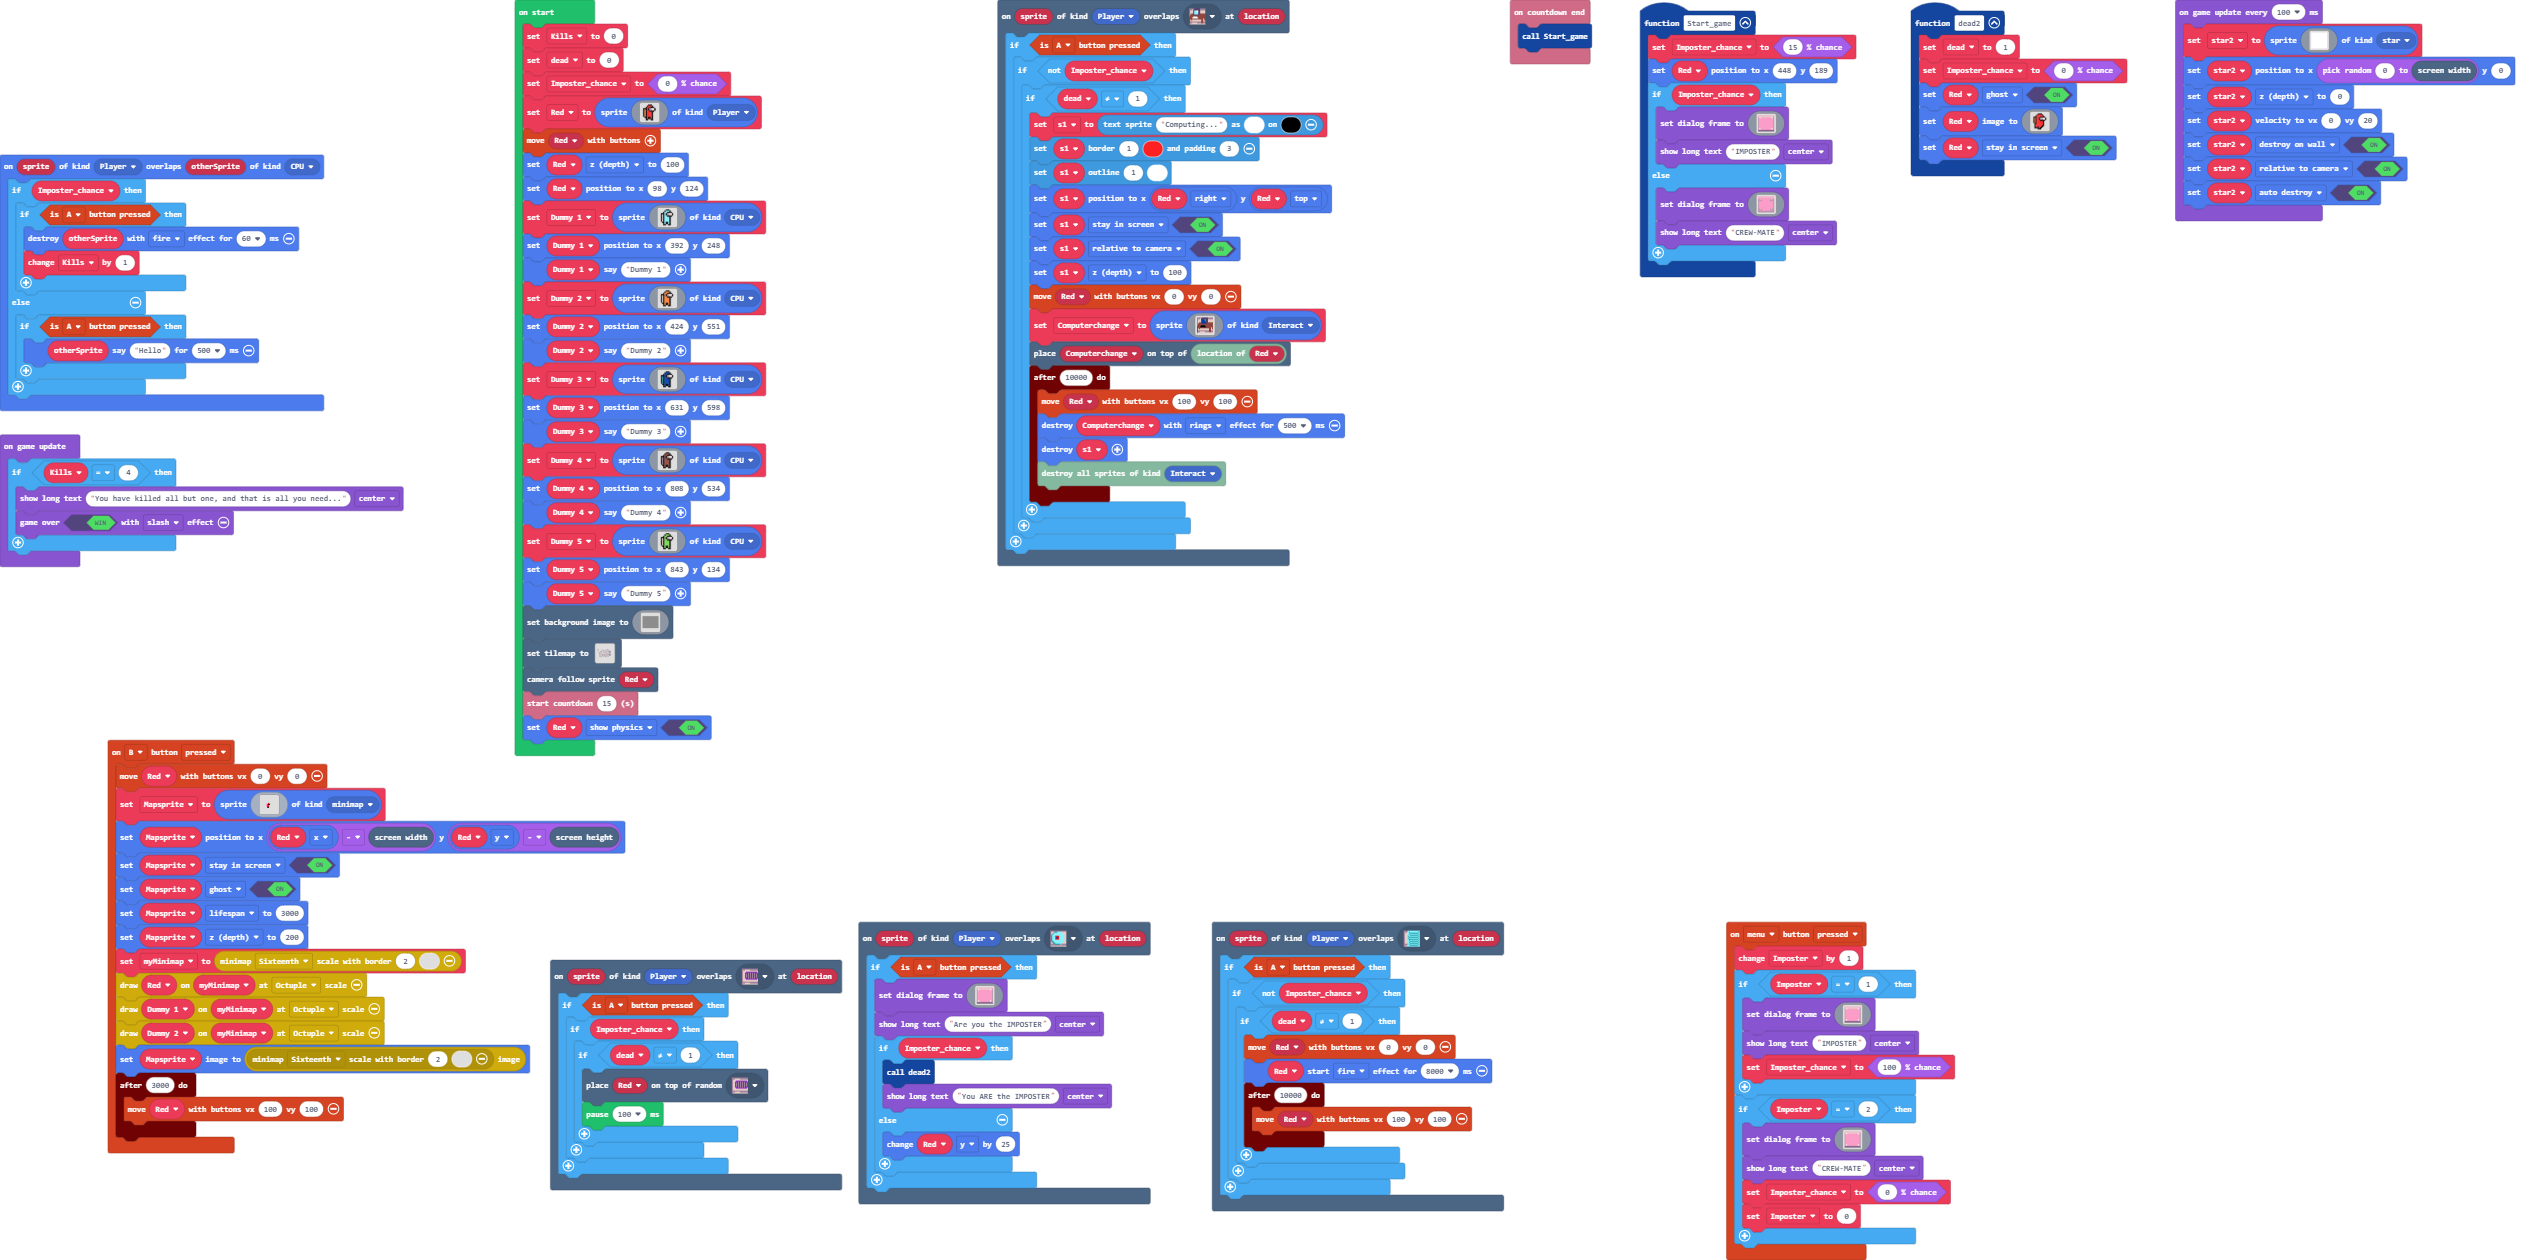
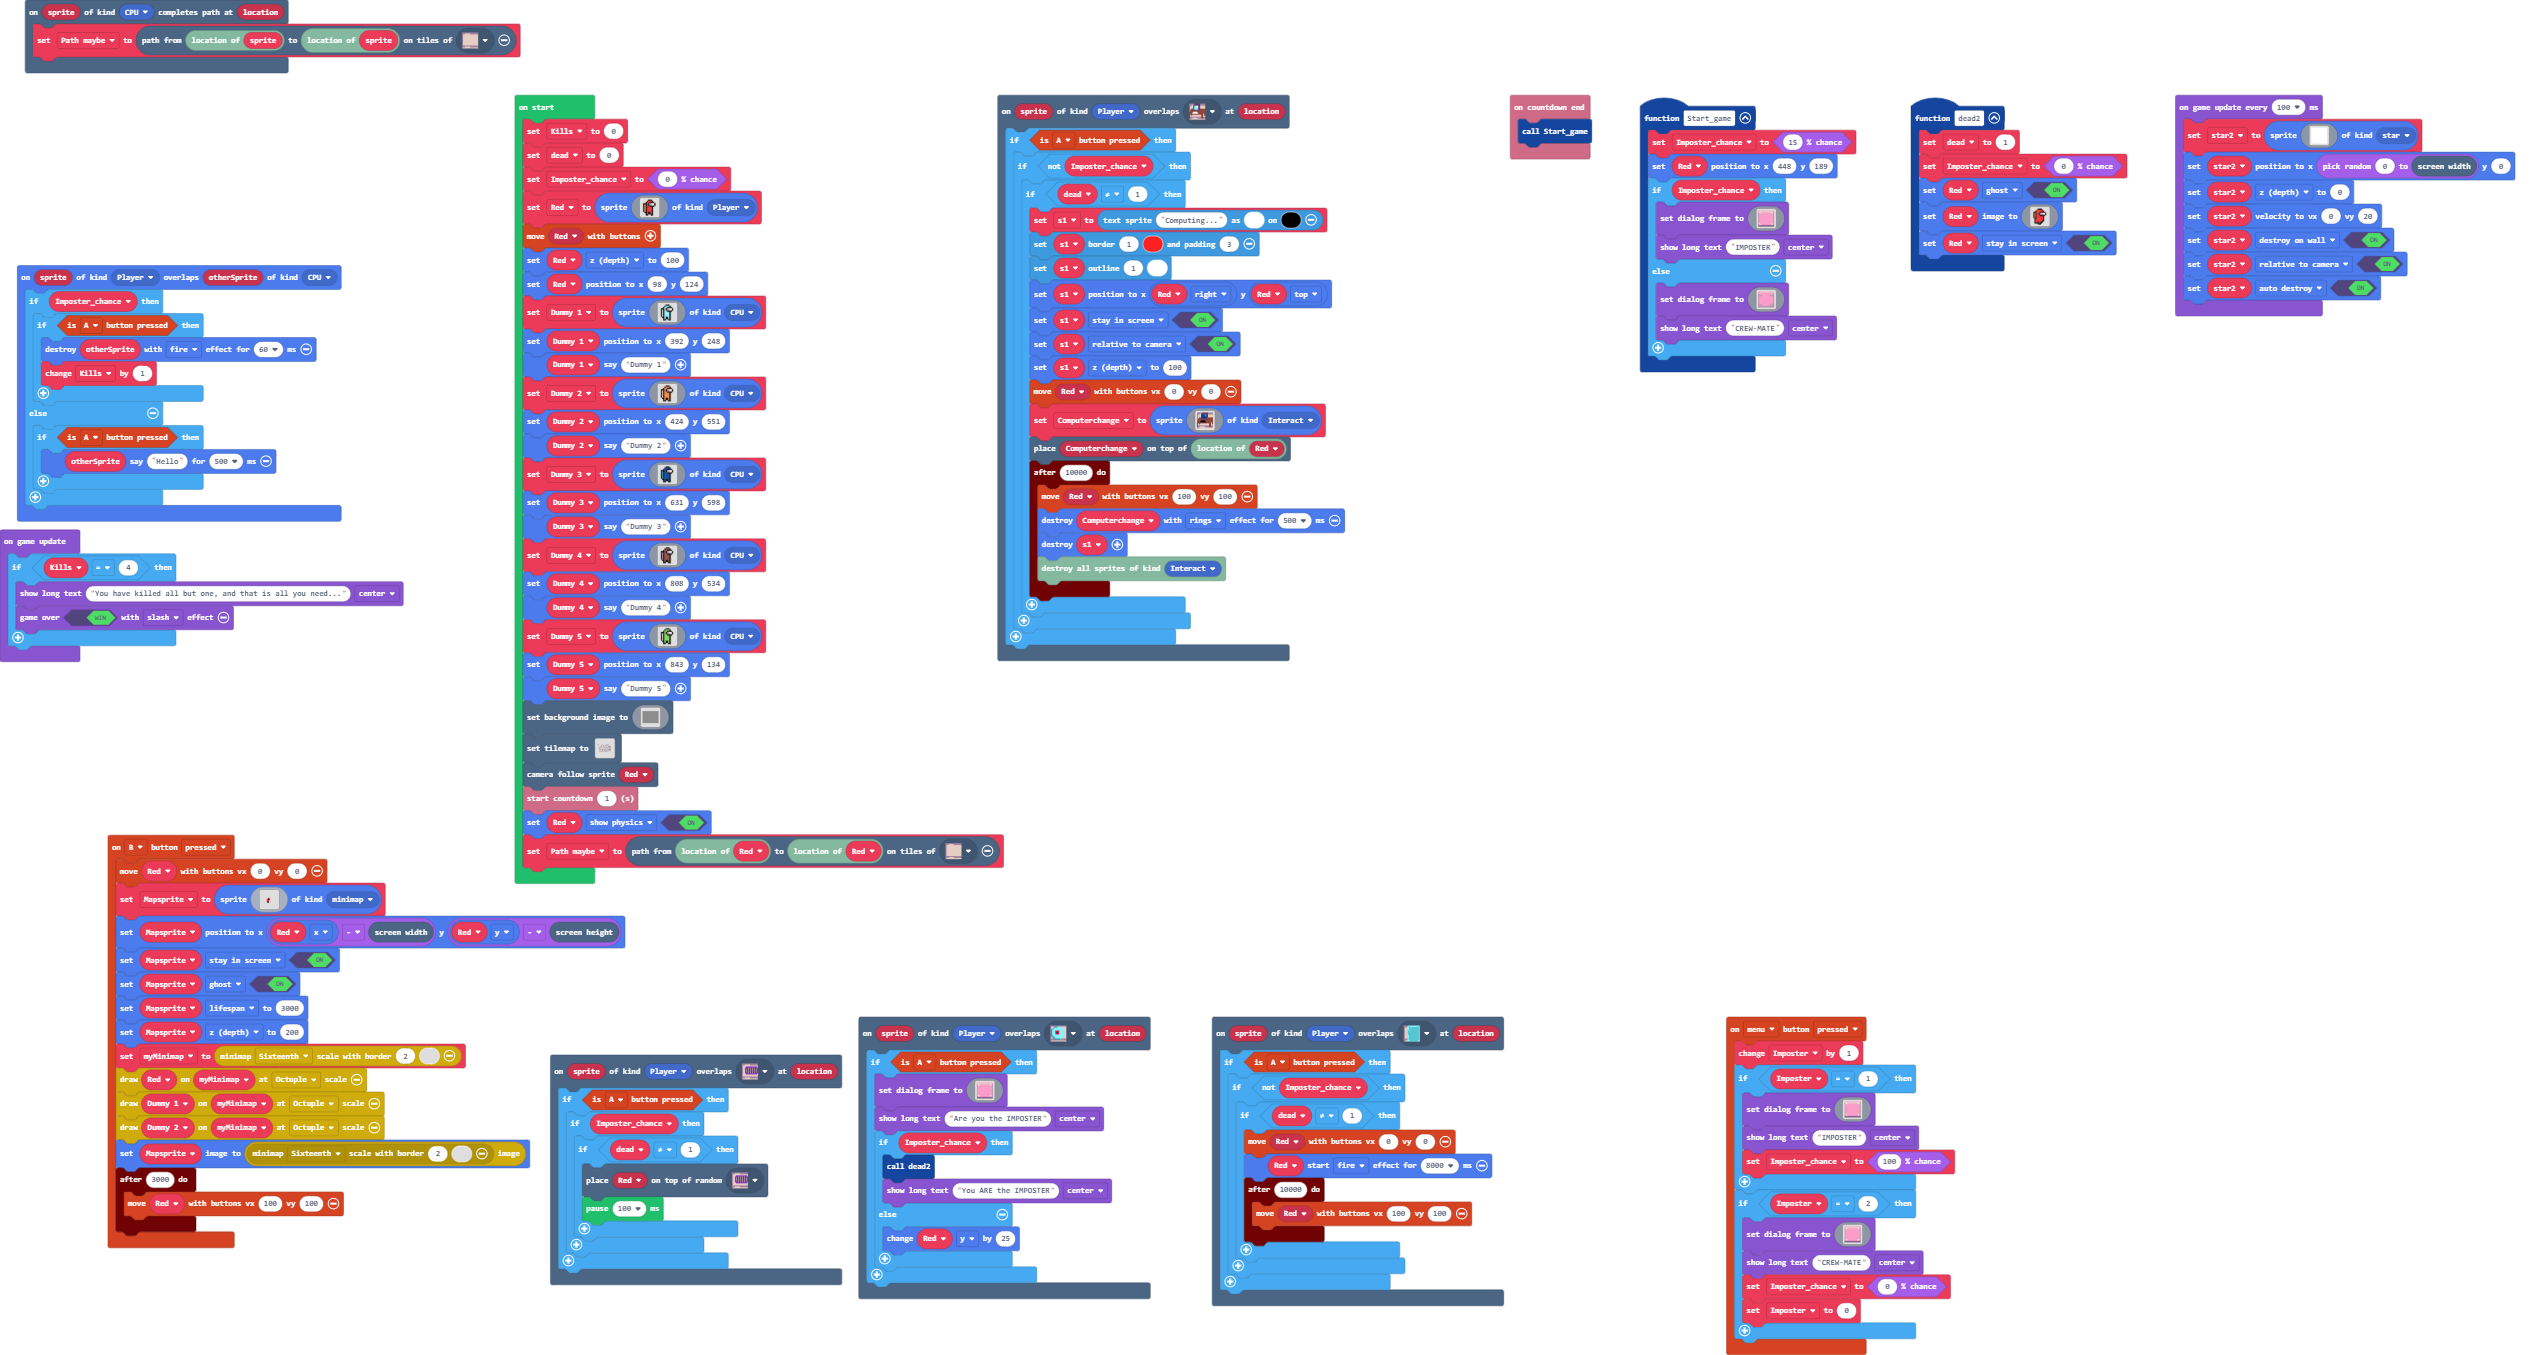
updating movement

diff --git a/main.ts b/main.ts
@@ -154,6 +154,9 @@ scene.onOverlapTile(SpriteKind.Player, myTiles.tile11, function (sprite, locatio
         }
     }
 })
+scene.onPathCompletion(SpriteKind.CPU, function (sprite, location) {
+    Path_maybe = scene.aStar(tiles.locationOfSprite(sprite), tiles.locationOfSprite(sprite), myTiles.tile1)
+})
 controller.menu.onEvent(ControllerButtonEvent.Pressed, function () {
     Imposter += 1
     if (Imposter == 1) {
@@ -308,6 +311,7 @@ let myMinimap: minimap.Minimap = null
 let Mapsprite: Sprite = null
 let Computerchange: Sprite = null
 let s1: TextSprite = null
+let Path_maybe: tiles.Location[] = []
 let Dummy_2: Sprite = null
 let Dummy_1: Sprite = null
 let Red: Sprite = null
@@ -543,8 +547,9 @@ scene.setBackgroundImage(img`
     `)
 tiles.setTilemap(tilemap`level_1`)
 scene.cameraFollowSprite(Red)
-info.startCountdown(15)
+info.startCountdown(1)
 Red.setFlag(SpriteFlag.ShowPhysics, true)
+Path_maybe = scene.aStar(tiles.locationOfSprite(Red), tiles.locationOfSprite(Red), myTiles.tile1)
 game.onUpdate(function () {
     if (Kills == 4) {
         game.showLongText("You have killed all but one, and that is all you need...", DialogLayout.Center)
